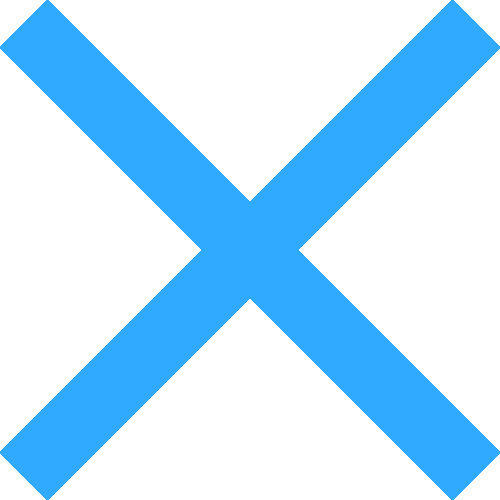
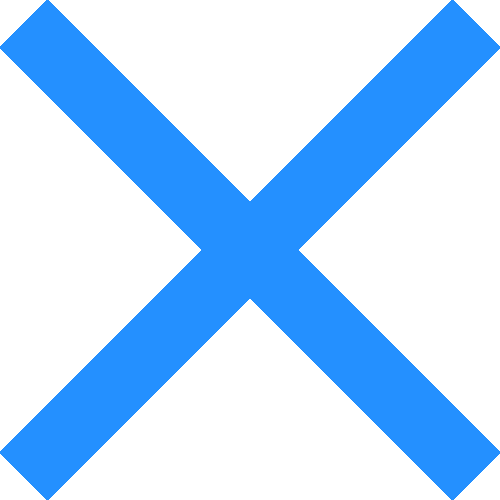
XO images fixed

diff --git a/games/xo/xo.js b/games/xo/xo.js
@@ -69,7 +69,7 @@ for (let a = 0 ; a < 9 ; a++) {
                     oDiv.style.filter = "";
                     xDiv.style.filter = "drop-shadow(-1px -1px 0.6px rgb(20,240,200)) drop-shadow(0px -1px 0.6px rgb(20,240,200)) drop-shadow(1px -1px 0.6px rgb(20,240,200)) drop-shadow(-1px 0px 0.6px rgb(20,240,200)) drop-shadow(1px 0px 0.6px rgb(20,240,200)) drop-shadow(-1px 1px 0.6px rgb(20,240,200)) drop-shadow(0px 1px 0.6px rgb(20,240,200)) drop-shadow(1px 1px 0.6px rgb(20,240,200)) ";
                 }
-                images[a].src = "image/" + nobat + "-win.png";
+                images[a].src = "image/" + nobat + ".png";
                     var opacityAnimation = setInterval(function(){
                     let opacity = images[a].style.opacity * 10;
                     opacity += 1;

diff --git a/games/xo/xo.css b/games/xo/xo.css
@@ -244,11 +244,11 @@ body {
     margin-right: 0;
 }
 .x-span {
-    background-image: url(image/x-win.png);
+    background-image: url(image/x.png);
     filter: drop-shadow(0 0 2px rgb(0,100,255)) drop-shadow(0 0 5px rgba(0,220,255));
 }
 .o-span {
-    background-image: url(image/o-win.png);
+    background-image: url(image/o.png);
     filter: drop-shadow(0 0 2px rgb(255, 30, 30)) drop-shadow(0 0 5px rgb(255, 90, 90));
 }
 .restart-btn {
@@ -307,10 +307,10 @@ body {
     background-repeat: no-repeat;
 }
 .o-bgimg {
-    background-image: url(image/o-win.png);
+    background-image: url(image/o.png);
 }
 .x-bgimg {
-    background-image: url(image/x-win.png);
+    background-image: url(image/x.png);
 }
 .o-info, .x-info {
     width: 300px;
